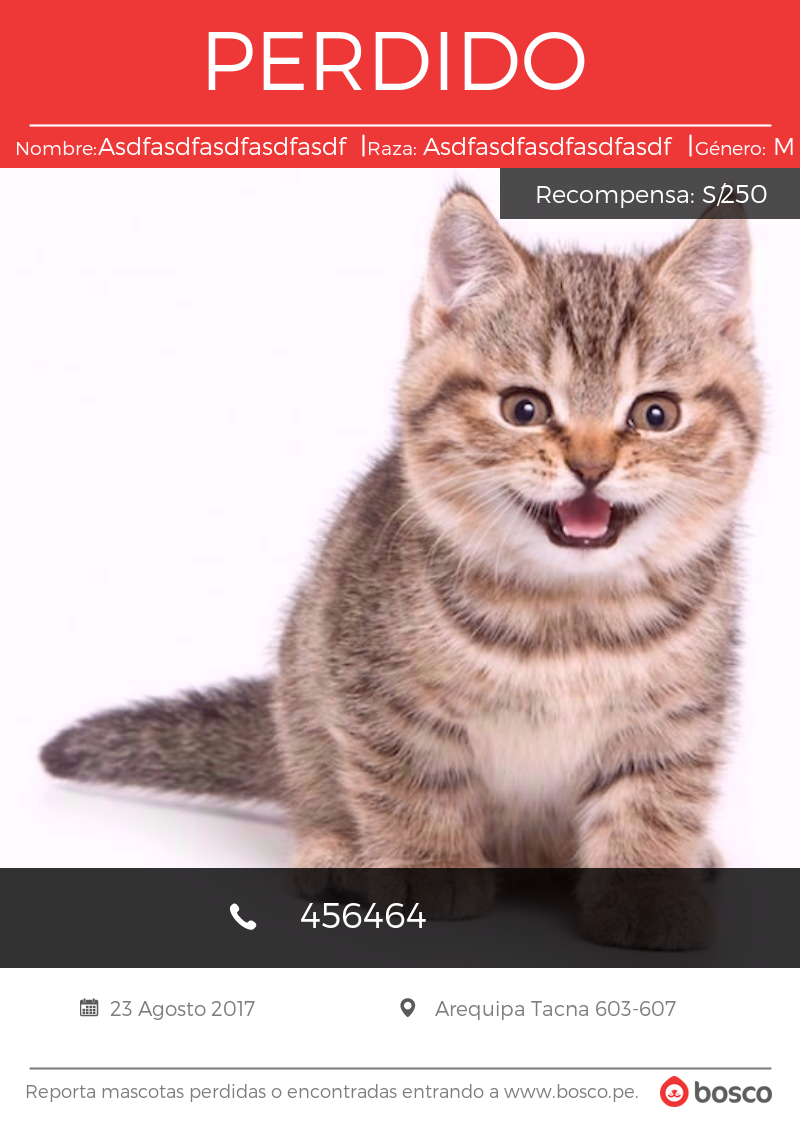
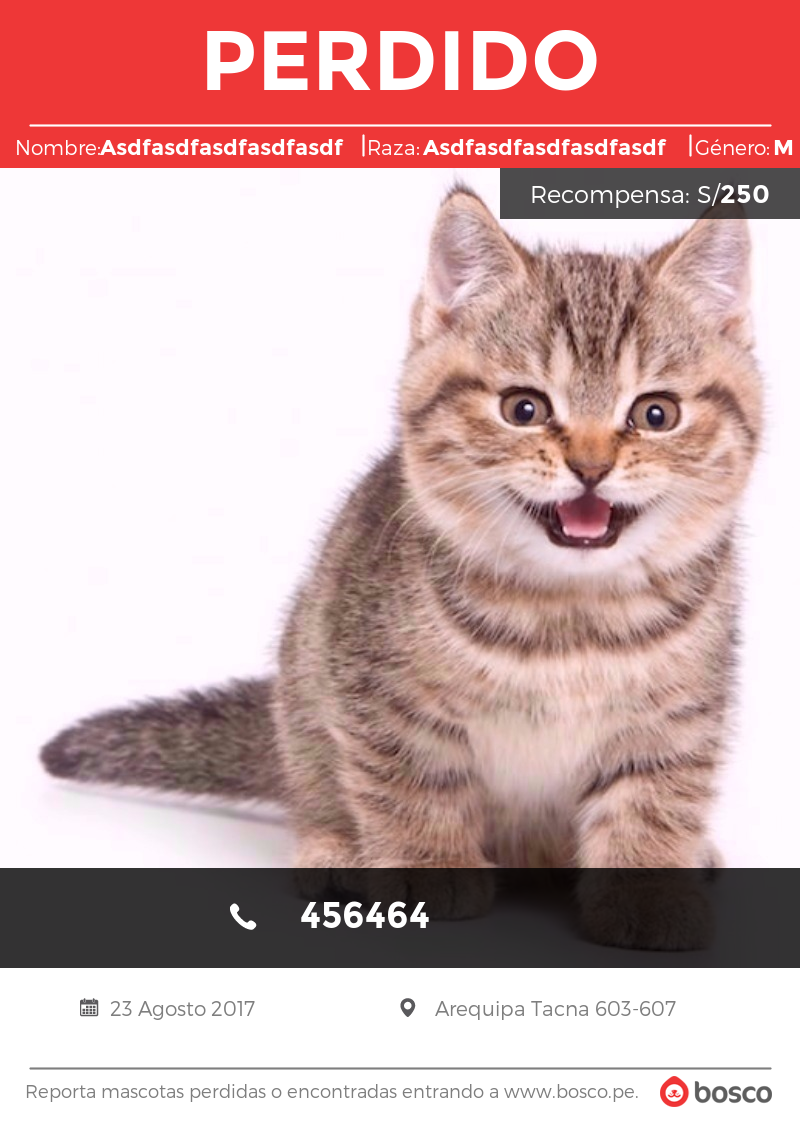
hotfix bold

diff --git a/app/Http/Controllers/ReportsController.php b/app/Http/Controllers/ReportsController.php
@@ -158,7 +158,7 @@ class ReportsController extends Controller {
             $headerLienzo->newImage(800, 168, new ImagickPixel('rgb(238, 55, 55)'));
             $headerLienzo->setImageFormat("jpg");
             $textoPerdido = new \ImagickDraw();
-            $textoPerdido->setFont("fonts/montserrat/montserrat-light.ttf");
+            $textoPerdido->setFont("fonts/montserrat/Montserrat-Bold.ttf");
             $textoPerdido->setFontSize(84);
             $textoPerdido->setStrokeWidth(3);
             $textoPerdido->setFillColor(new ImagickPixel('white'));
@@ -173,22 +173,22 @@ class ReportsController extends Controller {
             $factorCorreccionTextoIzquierda = 362; 
             $largoTextoIzquierda = strlen($name);
             $textoNombre = new \ImagickDraw();
-            $textoNombre->setFontSize(19);
+            $textoNombre->setFontSize(20);
             $textoNombre->setStrokeWidth(2);
             $textoNombre->setFillColor(new ImagickPixel('white'));        
             //15
             $textoNombre->setFont("fonts/montserrat/montserrat-light.ttf");
-            $textoNombre->annotation($factorCorreccionTituloIzquierda-($largoTextoIzquierda*$metricaCaracter) - $valorCorreccion - 3, 155, 'Nombre:');                                                                   
+            $textoNombre->annotation($factorCorreccionTituloIzquierda-($largoTextoIzquierda*$metricaCaracter) - $valorCorreccion , 155, 'Nombre:');                                                                   
             if ($status == "lost")
             $headerLienzo->drawImage($textoNombre);
             $valorNombre = new \ImagickDraw();
             $valorNombre->setFontWeight(600);
-            $valorNombre->setFontSize(24);
+            $valorNombre->setFontSize(22);
             $valorNombre->setStrokeWidth(2);
             $valorNombre->setFillColor(new ImagickPixel('white'));
             //98
-            $valorNombre->setFont("fonts/montserrat/montserrat-light.ttf");
-            $valorNombre->annotation($factorCorreccionTextoIzquierda-($largoTextoIzquierda*$metricaCaracter) - $valorCorreccion - 6, 155, ucfirst($name));                                                                   
+            $valorNombre->setFont("fonts/montserrat/Montserrat-Bold.ttf");
+            $valorNombre->annotation(2+$factorCorreccionTextoIzquierda-($largoTextoIzquierda*$metricaCaracter) - $valorCorreccion , 155, ucfirst($name));                                                                   
             if ($status == "lost")
             $headerLienzo->drawImage($valorNombre);  
             $draw = new \ImagickDraw();
@@ -200,7 +200,7 @@ class ReportsController extends Controller {
             $draw->line(363  - $valorCorreccion, 135, 363  - $valorCorreccion, 155);
             $headerLienzo->drawImage($draw);
             $textoRaza = new \ImagickDraw();
-            $textoRaza->setFontSize(19);
+            $textoRaza->setFontSize(20);
             $textoRaza->setStrokeWidth(2);
             $textoRaza->setFillColor(new ImagickPixel('white'));
             $textoRaza->setFont("fonts/montserrat/montserrat-light.ttf");
@@ -208,11 +208,11 @@ class ReportsController extends Controller {
             if ($status == "lost")
             $headerLienzo->drawImage($textoRaza);    
             $valorRaza = new \ImagickDraw();
-            $valorRaza->setFontSize(24);
+            $valorRaza->setFontSize(22);
             $valorRaza->setStrokeWidth(2);
             $valorRaza->setFillColor(new ImagickPixel('white'));
             $valorRaza->setFontWeight(600);
-            $valorRaza->setFont("fonts/montserrat/montserrat-light.ttf");
+            $valorRaza->setFont("fonts/montserrat/Montserrat-Bold.ttf");
             $valorRaza->annotation(423 - $valorCorreccion, 155, ucfirst($race));  
             if ($status == "lost")
             $headerLienzo->drawImage($valorRaza);   
@@ -222,7 +222,7 @@ class ReportsController extends Controller {
             $largoTextoCentro = strlen($race);
             $largoTextoCentroCorreccion = 20 - $largoTextoCentro; 
             $textoGenero = new \ImagickDraw();
-            $textoGenero->setFontSize(19);
+            $textoGenero->setFontSize(20);
             $textoGenero->setStrokeWidth(2);
             $textoGenero->setFillColor(new ImagickPixel('white'));
             //693
@@ -231,13 +231,13 @@ class ReportsController extends Controller {
             if ($status == "lost")
             $headerLienzo->drawImage($textoGenero);  
             $valorGenero = new \ImagickDraw();
-            $valorGenero->setFontSize(24);
+            $valorGenero->setFontSize(22);
             $valorGenero->setStrokeWidth(2);
             $valorGenero->setFillColor(new ImagickPixel('white'));
             $valorGenero->setFontWeight(600);
             //773
             $positionTextoDerecha = $factorCorreccionTextoDerecha - ($largoTextoCentroCorreccion * $metricaCaracter);
-            $valorGenero->setFont("fonts/montserrat/montserrat-light.ttf");
+            $valorGenero->setFont("fonts/montserrat/Montserrat-Bold.ttf");
             if (strlen($gender) == 5) {
                 $valorGenero->annotation($positionTextoDerecha - $valorCorreccion, 155, "M");                                                                               
             } else {
@@ -340,7 +340,7 @@ class ReportsController extends Controller {
             $phoneTexto = new \ImagickDraw();
             $phoneTexto->setFontSize(36);
             $phoneTexto->setFillColor(new ImagickPixel('white'));
-            $phoneTexto->setFont("fonts/montserrat/montserrat-light.ttf");
+            $phoneTexto->setFont("fonts/montserrat/Montserrat-Bold.ttf");
             $phoneTexto->annotation(300, 760, $contact_phone);  
             $im->drawImage($phoneTexto);    
             $im->setImageFormat("png");
@@ -354,7 +354,7 @@ class ReportsController extends Controller {
             $rewardTextoValor = new \ImagickDraw();
             $rewardTextoValor->setFontSize(26);
             $rewardTextoValor->setFillColor(new ImagickPixel('white'));
-            $rewardTextoValor->setFont("fonts/montserrat/montserrat-light.ttf");
+            $rewardTextoValor->setFont("fonts/montserrat/Montserrat-Bold.ttf");
             $rewardTextoValor->annotation(720, 35, $reward);  
             if (strlen($reward) > 0) 
             $im->drawImage($rewardTextoValor);    
@@ -456,31 +456,31 @@ class ReportsController extends Controller {
             $headerLienzo->newImage(800, 168, new ImagickPixel('rgb(238, 55, 55)'));
             $headerLienzo->setImageFormat("jpg");
             $textoPerdido = new \ImagickDraw();
-            $textoPerdido->setFontSize(82);
+            $textoPerdido->setFontSize(84);
             $textoPerdido->setStrokeWidth(3);
             $textoPerdido->setFillColor(new ImagickPixel('white'));
-            $textoPerdido->setFont("fonts/montserrat/montserrat-light.ttf");
+            $textoPerdido->setFont("fonts/montserrat/Montserrat-Bold.ttf");
             $textoPerdido->annotation(200, 90, 'PERDIDO');
             $headerLienzo->drawImage($textoPerdido);
             $factorCorreccionTituloIzquierda = 279; 
             $factorCorreccionTextoIzquierda = 362; 
             $largoTextoIzquierda = strlen($name);
             $textoNombre = new \ImagickDraw();
-            $textoNombre->setFontSize(19);
+            $textoNombre->setFontSize(20);
             $textoNombre->setStrokeWidth(2);
             $textoNombre->setFillColor(new ImagickPixel('white'));
             //15
             $textoNombre->setFont("fonts/montserrat/montserrat-light.ttf");
-            $textoNombre->annotation($factorCorreccionTituloIzquierda-($largoTextoIzquierda*$metricaCaracter) - $valorCorreccion - 3, 155, 'Nombre:');                                                                   
+            $textoNombre->annotation($factorCorreccionTituloIzquierda-($largoTextoIzquierda*$metricaCaracter) - $valorCorreccion, 155, 'Nombre:');                                                                   
             $headerLienzo->drawImage($textoNombre);
             $valorNombre = new \ImagickDraw();
-            $valorNombre->setFontSize(24);
+            $valorNombre->setFontSize(22);
             $valorNombre->setStrokeWidth(2);
             $valorNombre->setFillColor(new ImagickPixel('white'));
             $valorNombre->setFontWeight(600);
             //98
-            $valorNombre->setFont("fonts/montserrat/montserrat-light.ttf");
-            $valorNombre->annotation($factorCorreccionTextoIzquierda-($largoTextoIzquierda*$metricaCaracter) - $valorCorreccion - 6, 155, ucfirst($name));                                                                   
+            $valorNombre->setFont("fonts/montserrat/Montserrat-Bold.ttf");
+            $valorNombre->annotation(2+$factorCorreccionTextoIzquierda-($largoTextoIzquierda*$metricaCaracter) - $valorCorreccion, 155, ucfirst($name));                                                                   
             $headerLienzo->drawImage($valorNombre);  
             $draw = new \ImagickDraw();
             $draw->setStrokeColor(new ImagickPixel('white'));
@@ -490,18 +490,18 @@ class ReportsController extends Controller {
             $draw->line(363  - $valorCorreccion, 135, 363  - $valorCorreccion, 155);
             $headerLienzo->drawImage($draw);
             $textoRaza = new \ImagickDraw();
-            $textoRaza->setFontSize(19);
+            $textoRaza->setFontSize(20);
             $textoRaza->setStrokeWidth(2);
             $textoRaza->setFillColor(new ImagickPixel('white'));
             $textoRaza->setFont("fonts/montserrat/montserrat-light.ttf");
             $textoRaza->annotation(367 - $valorCorreccion, 155, 'Raza:');  
             $headerLienzo->drawImage($textoRaza);    
             $valorRaza = new \ImagickDraw();
-            $valorRaza->setFontSize(24);
+            $valorRaza->setFontSize(22);
             $valorRaza->setStrokeWidth(2);
             $valorRaza->setFontWeight(600);
             $valorRaza->setFillColor(new ImagickPixel('white'));
-            $valorRaza->setFont("fonts/montserrat/montserrat-light.ttf");
+            $valorRaza->setFont("fonts/montserrat/Montserrat-Bold.ttf");
             $valorRaza->annotation(423 - $valorCorreccion, 155, ucfirst($race));  
             $headerLienzo->drawImage($valorRaza);   
             $factorCorreccionTextoDerecha = 773;
@@ -510,7 +510,7 @@ class ReportsController extends Controller {
             $largoTextoCentro = strlen($race);
             $largoTextoCentroCorreccion = 20 - $largoTextoCentro; 
             $textoGenero = new \ImagickDraw();
-            $textoGenero->setFontSize(19);
+            $textoGenero->setFontSize(20);
             $textoGenero->setStrokeWidth(2);
             $textoGenero->setFillColor(new ImagickPixel('white'));
             $textoGenero->setFontWeight(600);
@@ -519,13 +519,13 @@ class ReportsController extends Controller {
             $textoGenero->annotation($factorCorreccionTituloDerecha - ($largoTextoCentroCorreccion * $metricaCaracter) - $valorCorreccion+2, 155, 'Género:');                                                                               
             $headerLienzo->drawImage($textoGenero);  
             $valorGenero = new \ImagickDraw();
-            $valorGenero->setFontSize(24);
+            $valorGenero->setFontSize(22);
             $valorGenero->setStrokeWidth(2);
             $valorGenero->setFontWeight(600);
             $valorGenero->setFillColor(new ImagickPixel('white'));
             //773
             $positionTextoDerecha = $factorCorreccionTextoDerecha - ($largoTextoCentroCorreccion * $metricaCaracter);
-            $valorGenero->setFont("fonts/montserrat/montserrat-light.ttf");
+            $valorGenero->setFont("fonts/montserrat/Montserrat-Bold.ttf");
             if (strlen($gender) == 5) {
                 $valorGenero->annotation($positionTextoDerecha - $valorCorreccion, 155, "M");                                                                               
             } else {
@@ -625,7 +625,7 @@ class ReportsController extends Controller {
             $phoneTexto = new \ImagickDraw();
             $phoneTexto->setFontSize(36);
             $phoneTexto->setFillColor(new ImagickPixel('white'));
-            $phoneTexto->setFont("fonts/montserrat/montserrat-light.ttf");
+            $phoneTexto->setFont("fonts/montserrat/Montserrat-Bold.ttf");
             $phoneTexto->annotation(300, 760, $contact_phone);  
             $im->drawImage($phoneTexto);    
             $im->setImageFormat("png");
@@ -636,9 +636,9 @@ class ReportsController extends Controller {
             $rewardTexto->annotation(530, 35, "Recompensa: S/. ");  
             $im->drawImage($rewardTexto);    
             $rewardTextoValor = new \ImagickDraw();
-            $rewardTextoValor->setFontSize(27);
+            $rewardTextoValor->setFontSize(26);
             $rewardTextoValor->setFillColor(new ImagickPixel('white'));
-            $rewardTextoValor->setFont("fonts/montserrat/montserrat-light.ttf");
+            $rewardTextoValor->setFont("fonts/montserrat/Montserrat-Bold.ttf");
             $rewardTextoValor->annotation(720, 35, $reward);  
             $im->drawImage($rewardTextoValor);    
             $lienzo->compositeimage($headerLienzo->getimage(), Imagick::COMPOSITE_COPY, 0, 0);
